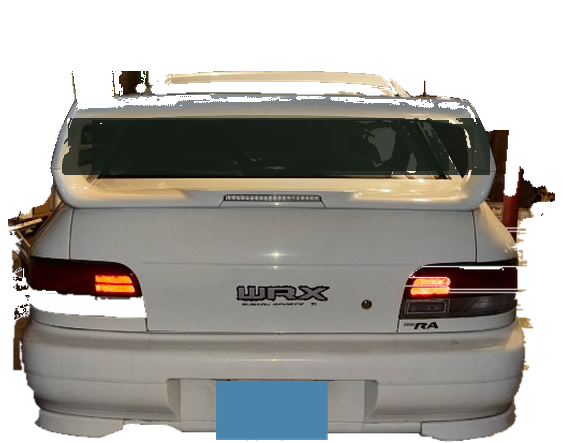
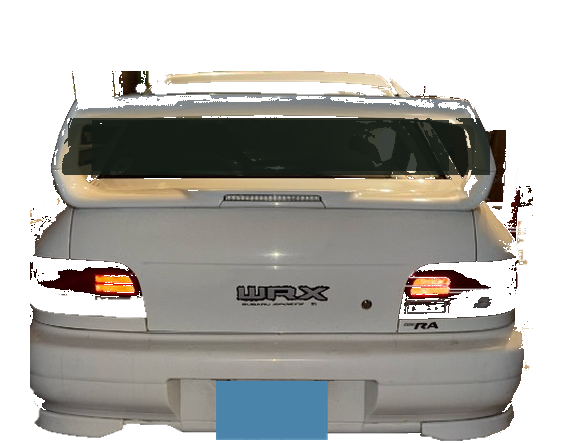
Put tires under the cleaned-up WRX and let a gas stop paint it.

diff --git a/index.html b/index.html
@@ -430,6 +430,26 @@
       letter-spacing: 0.06em;
       text-transform: uppercase;
     }
+    .look-row--ride {
+      grid-template-columns: 1fr;
+      padding-bottom: 10px;
+    }
+    .look-ride-btns {
+      display: flex;
+      flex-wrap: wrap;
+      gap: 8px;
+    }
+    .look-row--ride .ride-pick {
+      display: inline-flex;
+    }
+    .ride-pick.is-on {
+      border-color: #f7ead0;
+      background: rgba(242, 140, 24, 0.22);
+    }
+    .ride-pick:disabled {
+      opacity: 0.45;
+      cursor: not-allowed;
+    }
     .look-row.is-pinned .look-pin {
       color: #1a1307;
       background: #f0c56a;
@@ -2291,7 +2311,10 @@
   const WRX_NEAR_IMG = new Image();
   WRX_NEAR_IMG.src = 'assets/wrx-near.png';
   const WRX_BASE_W = 62;
-  const WRX_GROUND = 0.995;
+  // Bumper sits above the road so the rear tires can show underneath.
+  const WRX_GROUND = 1.121;
+  const WRX_WHEEL_X = 0.40;
+  const WRX_WHEEL_R = 0.095;
   // Single pipe, left of the plate, on the shared bumper anchor.
   const WRX_TIPS = [{ fx: 0.36, fy: 0.975, spread: 0 }];
   const overlay = document.getElementById('overlay');
@@ -3755,7 +3778,9 @@
   const equippedLooks = new Set();
   const lookColors = {};
   const EQUIP_KEY = 'c4c-car-equipped';
+  const RIDE_KEY = 'c4c-player-ride';
   const LOOK_COLOR_KEY = 'c4c-look-colors';
+  let playerRide = 'wrx';
   const LOOK_SHORT = {
     paint: 'Paint',
     glow: 'Underglow',
@@ -3810,6 +3835,10 @@
       }
     }
   } catch (_) { /* private mode */ }
+  try {
+    const savedRide = localStorage.getItem(RIDE_KEY);
+    if (savedRide === 'bmw' || savedRide === 'wrx') playerRide = savedRide;
+  } catch (_) { /* private mode */ }
   function lookOn(id) { return ownedLooks.has(id) && equippedLooks.has(id); }
   function lookHex(id) {
     return (lookColors[id] || LOOK_DEFAULT_COLOR[id] || '#f4f0e6').toLowerCase();
@@ -3840,6 +3869,9 @@
   }
   function saveLookColors() {
     try { localStorage.setItem(LOOK_COLOR_KEY, JSON.stringify(lookColors)); } catch (_) { /* private mode */ }
+  }
+  function savePlayerRide() {
+    try { localStorage.setItem(RIDE_KEY, playerRide); } catch (_) { /* private mode */ }
   }
   function pickRandomLook() {
     const pool = CAR_LOOKS.filter((look) => !ownedLooks.has(look.id));
@@ -4581,6 +4613,10 @@
     {
       lines: ['Free Gas.', 'With purchase of a low price', '"Fuel package"'],
       accent: 0
+    },
+    {
+      lines: ['liquor = friend.', 'liquor = love'],
+      accent: 0
     }
   ];
   const BILLBOARD_TEX_W = 960;
@@ -4923,7 +4959,8 @@
       { z: 200, side: -1, ad: 1 },
       { z: 270, side: 1, ad: 2 },
       { z: 340, side: -1, ad: 3 },
-      { z: 410, side: 1, ad: 4 }
+      { z: 410, side: 1, ad: 4 },
+      { z: 480, side: -1, ad: 5 }
     ];
     for (const spot of spots) {
       const ad = BILLBOARD_ADS[spot.ad];
@@ -5405,16 +5442,52 @@
     overlay?.classList.remove('is-bay');
   }
 
+  function mountRidePickerRow() {
+    const row = document.createElement('div');
+    row.className = 'look-row look-row--ride';
+    const name = document.createElement('span');
+    name.className = 'look-name';
+    name.textContent = 'Your ride';
+    const btns = document.createElement('div');
+    btns.className = 'look-ride-btns';
+    btns.setAttribute('role', 'group');
+    btns.setAttribute('aria-label', 'Choose BMW or Subaru');
+    for (const opt of [
+      { id: 'bmw', label: 'BMW X5' },
+      { id: 'wrx', label: 'Subaru WRX' }
+    ]) {
+      const btn = document.createElement('button');
+      btn.type = 'button';
+      btn.className = 'look-off ride-pick' + (playerRide === opt.id ? ' is-on' : '');
+      btn.textContent = opt.label;
+      btn.setAttribute('aria-pressed', playerRide === opt.id ? 'true' : 'false');
+      if (opt.id === 'wrx' && !wrxReady()) {
+        btn.disabled = true;
+        btn.title = 'Subaru photos still loading';
+      }
+      btn.addEventListener('click', () => {
+        if (opt.id === 'wrx' && !wrxReady()) return;
+        playerRide = opt.id;
+        savePlayerRide();
+        mountLookBay();
+      });
+      btns.appendChild(btn);
+    }
+    row.append(name, btns);
+    return row;
+  }
+
   function mountLookBay() {
     if (!lookBay || !lookBayList) return;
-    const owned = CAR_LOOKS.filter((look) => ownedLooks.has(look.id));
-    if (!owned.length || state.mode !== 'gas') {
+    if (state.mode !== 'gas') {
       hideLookBay();
       return;
     }
     lookBay.hidden = false;
     overlay?.classList.add('is-bay');
-    lookBayList.replaceChildren(...owned.map((look) => {
+    if (lookBayFloat == null && lookBayPinned.size === 0) lookBayFloat = 'paint';
+    const owned = CAR_LOOKS.filter((look) => ownedLooks.has(look.id) || look.id === 'paint');
+    const rows = [mountRidePickerRow(), ...owned.map((look) => {
       const row = document.createElement('div');
       const pinned = lookBayPinned.has(look.id);
       const floated = lookBayFloat === look.id;
@@ -5465,7 +5538,10 @@
       toggle.addEventListener('click', () => {
         lookBayFloat = look.id;
         if (equippedLooks.has(look.id)) equippedLooks.delete(look.id);
-        else equippedLooks.add(look.id);
+        else {
+          if (look.id === 'paint') ownedLooks.add('paint');
+          equippedLooks.add(look.id);
+        }
         saveLooks();
         mountLookBay();
       });
@@ -5483,6 +5559,7 @@
         btn.addEventListener('click', () => {
           lookBayFloat = look.id;
           lookColors[look.id] = swatch.hex;
+          if (look.id === 'paint') ownedLooks.add('paint');
           if (!equippedLooks.has(look.id)) equippedLooks.add(look.id);
           if (look.id === 'paint') {
             paintSheet = null;
@@ -5512,7 +5589,8 @@
       }
       row.append(head, pin, toggle, swatches);
       return row;
-    }));
+    })];
+    lookBayList.replaceChildren(...rows);
   }
 
   function hideRunPurse() {
@@ -9544,7 +9622,7 @@
     const flame = plume ? lookRgb('plume') : [90, 190, 255];
     const flameHot = mixTowardWhite(flame, 0.78);
     const flameMid = mixTowardWhite(flame, 0.28);
-    const tips = wrxReady() ? WRX_TIPS : PLAYER_CAR_TIPS;
+    const tips = playerUsesWrx() ? WRX_TIPS : PLAYER_CAR_TIPS;
     for (let i = 0; i < tips.length; i++) {
       const tip = tips[i];
       const [tx, ty] = spritePoint(drawW, drawH, s, tip.fx, tip.fy);
@@ -9688,15 +9766,19 @@
     return WRX_FAR_IMG.complete && WRX_FAR_IMG.naturalWidth > 0;
   }
 
+  function playerUsesWrx() {
+    return playerRide === 'wrx' && wrxReady();
+  }
+
   function spritePoint(drawW, drawH, s, fx, fy) {
-    const top = wrxReady() ? -drawH * WRX_GROUND : -drawH + 2 * s;
+    const top = playerUsesWrx() ? -drawH * WRX_GROUND : -drawH + 2 * s;
     return [-drawW / 2 + fx * drawW, top + fy * drawH];
   }
 
   function drawPlayerPlate(drawW, drawH, s) {
     const pw = drawW * 0.18;
     const ph = Math.max(7 * s, drawH * 0.05);
-    const [, y] = spritePoint(drawW, drawH, s, 0.5, wrxReady() ? 0.845 : 0.7);
+    const [, y] = spritePoint(drawW, drawH, s, 0.5, playerUsesWrx() ? 0.845 : 0.7);
     const plateY = y - ph / 2;
     const rgb = lookRgb('plate');
     const ink = (0.2126 * rgb[0] + 0.7152 * rgb[1] + 0.0722 * rgb[2]) < 150 ? '#f7ead0' : '#1a1307';
@@ -9721,7 +9803,7 @@
     const pulse = 0.88 + Math.sin(performance.now() * 0.009) * 0.12;
     const rgb = lookRgb('taillights');
     const hot = mixTowardWhite(rgb, 0.72);
-    const lamps = wrxReady()
+    const lamps = playerUsesWrx()
       ? [{ fx: 0.2, fy: 0.58 }, { fx: 0.8, fy: 0.58 }]
       : [{ fx: 0.145, fy: 0.56 }, { fx: 0.855, fy: 0.56 }];
     ctx.save();
@@ -9761,7 +9843,7 @@
   }
 
   function drawPlayerRoofRack(drawW, drawH, s) {
-    const [, ry] = spritePoint(drawW, drawH, s, 0.5, wrxReady() ? 0.2 : 0.135);
+    const [, ry] = spritePoint(drawW, drawH, s, 0.5, playerUsesWrx() ? 0.2 : 0.135);
     const rw = drawW * 0.46;
     const pipeH = Math.max(1.8, 2.2 * s);
     ctx.save();
@@ -9998,7 +10080,7 @@
     const pitch = opts.pitch || 0;
     const roll = opts.roll || 0;
     const s = Math.max(0.12, scale);
-    const ride = wrxReady();
+    const ride = playerUsesWrx();
     const drawW = (ride ? WRX_BASE_W : PLAYER_CAR_BASE_W) * s;
     const drawH = ride
       ? drawW * (WRX_FAR_IMG.naturalHeight / WRX_FAR_IMG.naturalWidth)
@@ -10039,6 +10121,14 @@
     ctx.beginPath();
     ctx.ellipse(0, 3 * s, drawW * (ride ? 0.34 : 0.44), drawH * (ride ? 0.065 : 0.09), 0, 0, Math.PI * 2);
     ctx.fill();
+
+    if (ride) {
+      const wheelR = drawW * WRX_WHEEL_R;
+      const wheelX = drawW * WRX_WHEEL_X;
+      const spin = opts.wheelSpin || 0;
+      drawCarWheel(-wheelX, -wheelR, wheelR, spin, 0);
+      drawCarWheel(wheelX, -wheelR, wheelR, spin + 0.4, 0);
+    }
 
     if (ride) {
       const painted = wrxPaintPair();
@@ -10101,7 +10191,7 @@
     const bob = Math.sin(d.wheelSpin * 2) * (d.speed / 900) + (d.susp || 0) * 0.35;
     const ground = projectWorld(d.playerX, 0, carZ, d);
     const s = playerCarScale(ground);
-    const ride = wrxReady();
+    const ride = playerUsesWrx();
     const drawW = (ride ? WRX_BASE_W : PLAYER_CAR_BASE_W) * s;
     const drawH = ride
       ? drawW * (WRX_FAR_IMG.naturalHeight / WRX_FAR_IMG.naturalWidth)
